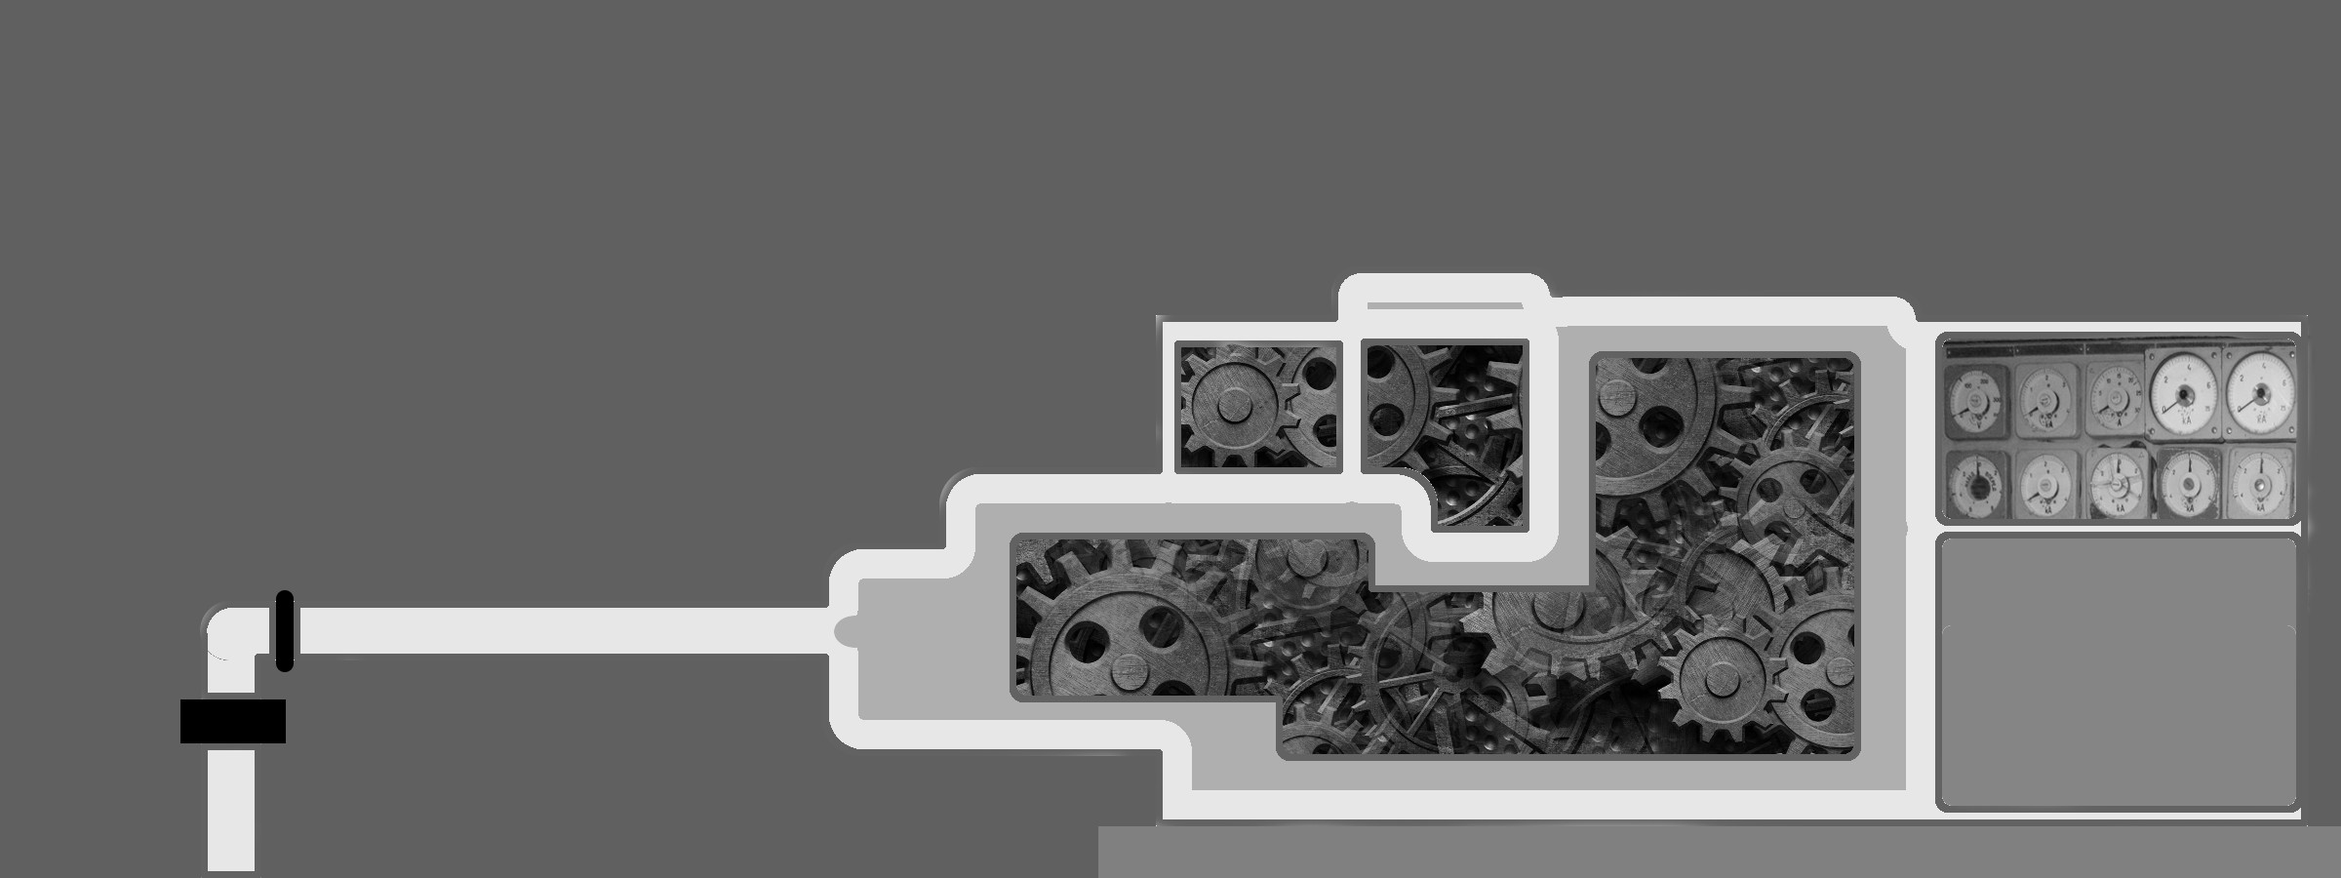
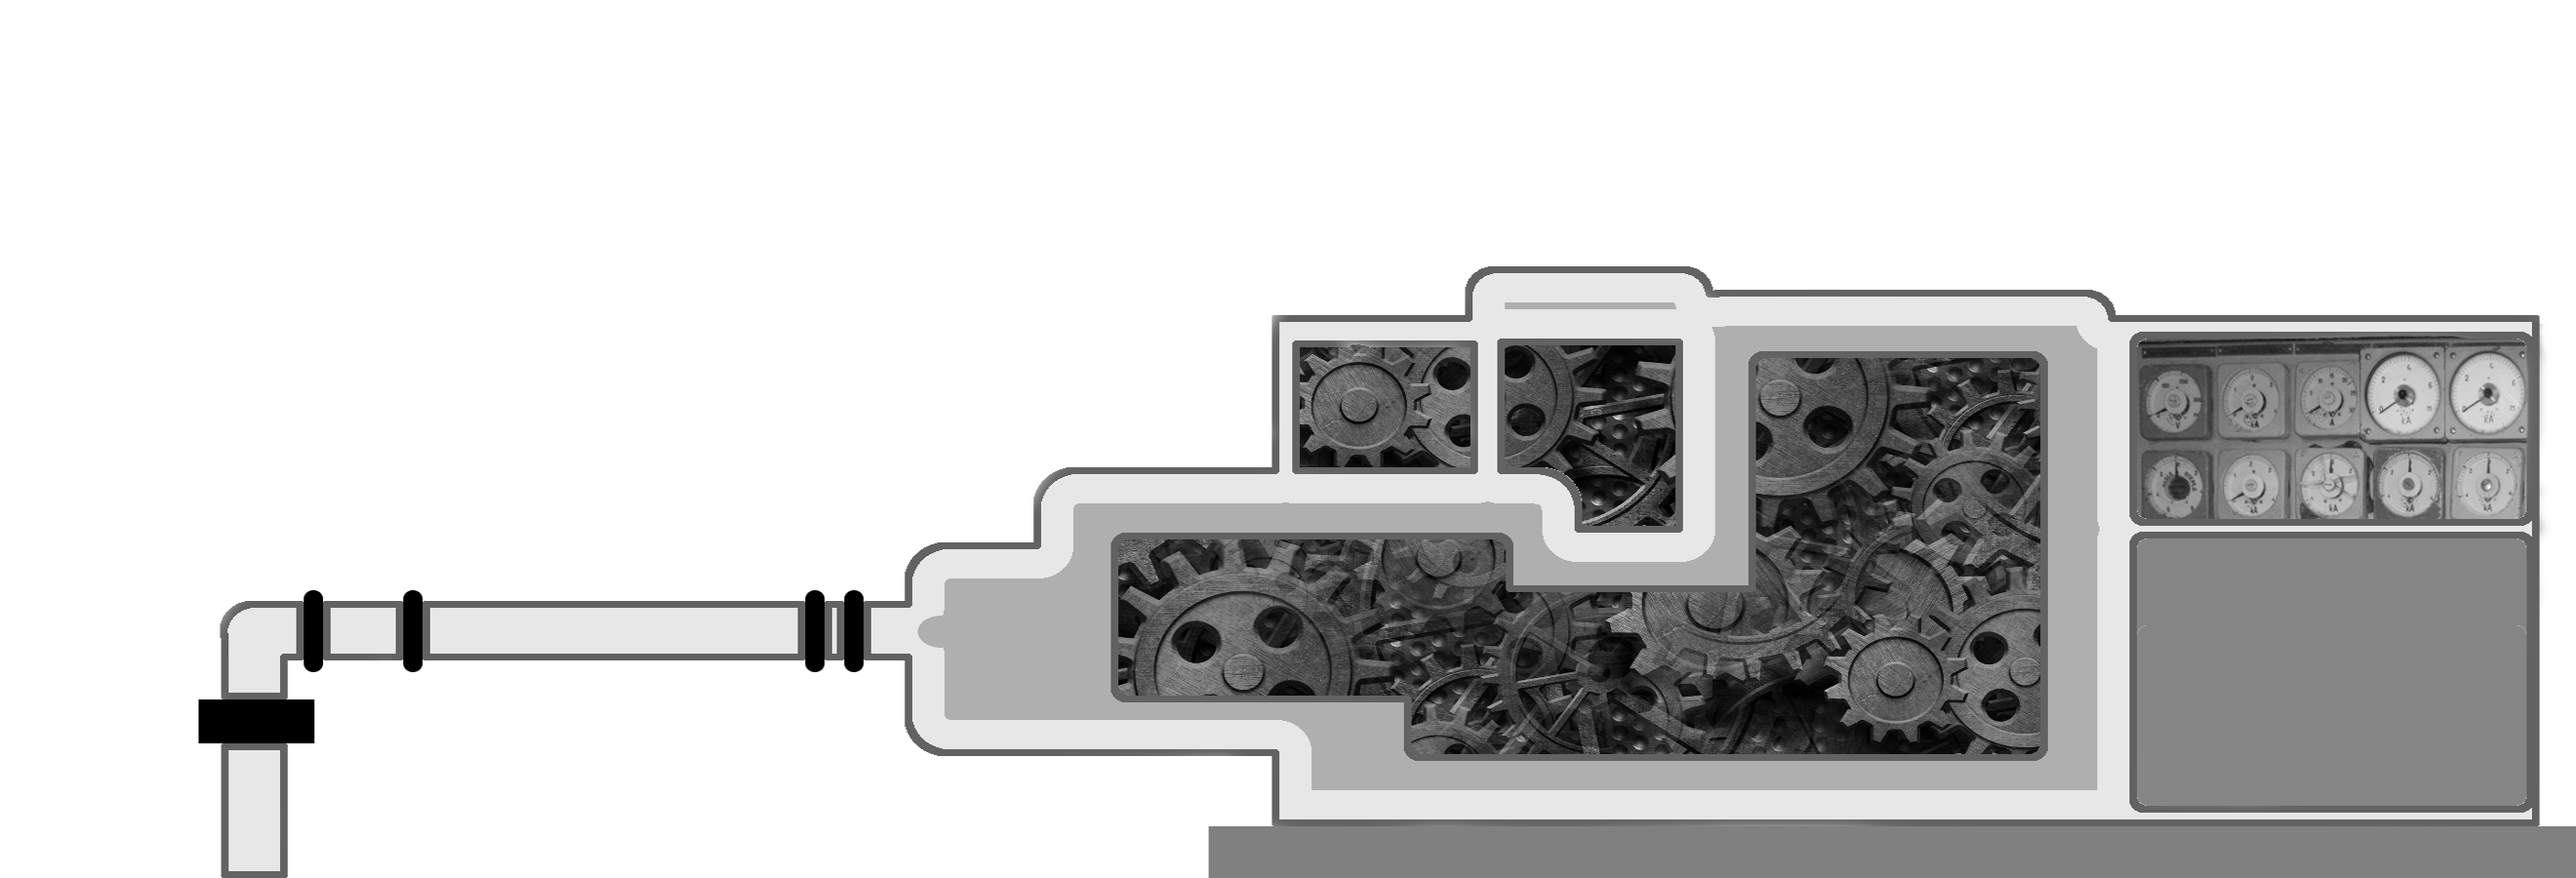
page-2 corridor scrolling working

diff --git a/js/page2.js b/js/page2.js
@@ -29,7 +29,24 @@
                         interval_promise = $interval(function () {
                             scroll = Math.min(Math.max(0, scroll + vel), 100);
 
-                            var vals = { near: scroll * 1.2, mid: scroll * 1.1, far: scroll }
+                            // scroll runs from 0 -> 100
+                            // images need to move their left by width - screen_width
+                            var far_aspect = 2500 / 900;
+                            var mid_aspect = 2640 / 900;
+                            var near_aspect = 2880 / 900;
+
+                            // each image has aspect_ratio - screen_aspect_ratio sticking out beyond the screen edge
+                            var far_extra = far_aspect - $rootScope.aspect_ratio;
+                            var mid_extra = mid_aspect - $rootScope.aspect_ratio;
+                            var near_extra = near_aspect - $rootScope.aspect_ratio;
+
+                            // so the max movement of each image as a % is 100 * that, and the current movement is -scroll * that
+                            // HOWEVER divide by the aspect ratio as we've calculated all this as a fraction of the height
+                            // not the width
+                            var vals = { near: -scroll * near_extra / $rootScope.aspect_ratio,
+                                mid: -scroll * mid_extra / $rootScope.aspect_ratio,
+                                far: -scroll * far_extra / $rootScope.aspect_ratio
+                            }
 
                             $scope.far_parallax_x = "{far}%".format(vals);
                             $scope.mid_parallax_x = "{mid}%".format(vals);
@@ -38,11 +55,11 @@
                     }
 
                     $scope.leftStart = function (e) {
-                        startMove(-1);
+                        startMove(-1.5);
                     };
 
                     $scope.rightStart = function (e) {
-                        startMove(1);
+                        startMove(1.5);
                     };
 
                     $scope.moveEnd = function (e) {

diff --git a/css/styles.css b/css/styles.css
@@ -522,8 +522,8 @@ body, .zero-spacing {
 .fill-parent-parallax {
     position: absolute;
     overflow: hidden;
-    width: 100%;
     height: 100%;
+    width: auto;
 }
 
 .walk-button {
